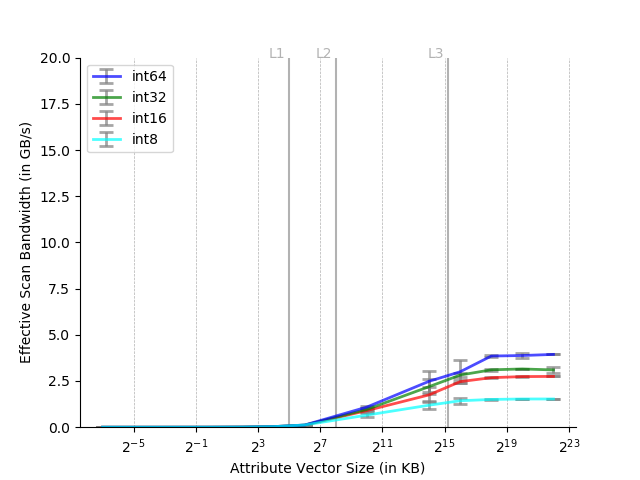
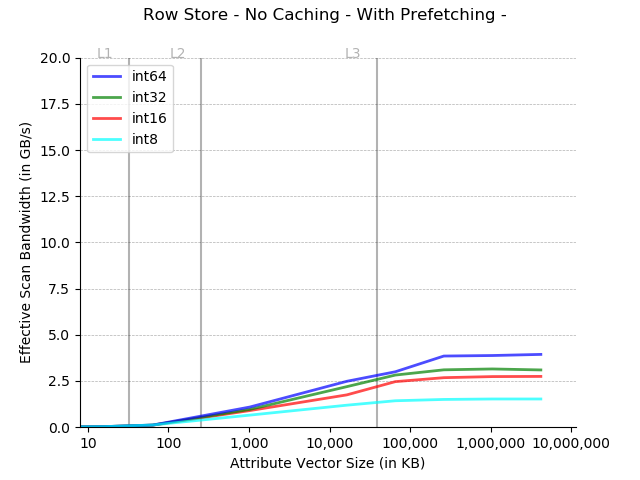
Plot improvements (#30)
* horizontal grid lines

* no-variance flag, base 10 x-axis, no power x-axis labels, start at 8KB

* plot title, only64

diff --git a/generate_figures.py b/generate_figures.py
@@ -2,6 +2,7 @@ import os
 import sys
 
 import matplotlib.pyplot as plt
+from matplotlib import ticker
 import numpy as np
 import pandas as pd
 
@@ -12,7 +13,7 @@ dtypekey = 'Data type'
 colors = ['#f6a800', '#af0039', '#dd630d', '#007a9e']
 
 
-def process_file(filename):
+def process_file(filename, show_variance, only_64):
     data = pd.read_csv(filename)
     csizes = np.unique(data[colszkey])
     dtype_dfs = []
@@ -21,8 +22,11 @@ def process_file(filename):
     ax.spines['top'].set_visible(False)
     ax.spines['right'].set_visible(False)
 
-    for dtype in np.unique(data[dtypekey]):
-        dtype_dfs.append(data[data[dtypekey] == dtype])
+    if only_64:
+        dtype_dfs.append(data[data[dtypekey] == "int64"])
+    else:
+        for dtype in np.unique(data[dtypekey]):
+            dtype_dfs.append(data[data[dtypekey] == dtype])
 
     for idx, df in enumerate(dtype_dfs):
         bandwidth = df[colszkey] / df[tkey] / 1024 / 1024 * 1e9
@@ -30,15 +34,22 @@ def process_file(filename):
         bandwidth_stds = [np.std(bandwidth[df[colszkey] == csz]) for csz in csizes]
 
         plt.errorbar(x=csizes,
-                     y=bandwidth_means,
-                     yerr=bandwidth_stds,
-                     label=df[dtypekey].iloc[0],
-                     color=colors[idx], alpha=0.7,
-                     ecolor='gray', lw=2, capsize=5, capthick=2)
+             y=bandwidth_means,
+             yerr=bandwidth_stds if show_variance else None,
+             label=df[dtypekey].iloc[0],
+             color=colors[idx], alpha=0.7,
+             ecolor='gray', lw=2, capsize=5, capthick=2)
 
     plt.legend()
     plt.xlabel('Attribute Vector Size (in KB)')
-    plt.xscale('log', basex=2)
+    plt.xscale('log', basex=10)
+
+    def comma_seperators(x, pos):
+        return "{:,}".format(int(x))
+
+    plt.gca().xaxis.set_major_formatter(ticker.FuncFormatter(comma_seperators))
+    plt.minorticks_off()
+    plt.xlim(xmin=8)
     plt.gca().yaxis.grid(True, lw=.5, ls='--')
     plt.ylabel('Effective Scan Bandwidth (in GB/s)')
 
@@ -50,7 +61,7 @@ def process_file(filename):
     else:
         plt.ylim(ymin=0, ymax=100)
 
-    # show cache sizes of L1, L2 and L3    
+    # show cache sizes of L1, L2 and L3
     if system_type == 'intel':
         cache_sizes_in_kib = {
             'L1': 32,
@@ -65,13 +76,23 @@ def process_file(filename):
         }
     for cache in cache_sizes_in_kib:
         plt.axvline(cache_sizes_in_kib[cache], color='k', alpha=.3)
-        plt.text(cache_sizes_in_kib[cache] * 0.4, plt.ylim()[1], cache, color='k', alpha=.3)    
+        plt.text(cache_sizes_in_kib[cache] * 0.4, plt.ylim()[1], cache, color='k', alpha=.3)
 
     # print labels in the right order
     handles, labels = plt.gca().get_legend_handles_labels()
     order = [2, 1, 0, 3]
-    plt.legend([handles[i] for i in order], [labels[i] for i in order], loc=2, prop={'size': 10})
+    if only_64:
+        plt.legend([handles[0]], [labels[0]], loc=2, prop={'size': 10})
+    else:
+        plt.legend([handles[i] for i in order], [labels[i] for i in order], loc=2, prop={'size': 10})
 
+    caching_enabled = "caching1" in filename
+    prefetching_enabled = "prefetch1" in filename
+    column_store = "colstore" in filename
+    caching_title = "With Caching" if caching_enabled else "No Caching"
+    prefetching_title = "With Prefetching" if prefetching_enabled else "No Prefetching"
+    store_title = "Column Store" if column_store else "Row Store"
+    plt.title("{} - {} - {} - ".format(store_title, caching_title, prefetching_title), y=1.08)
     plt.savefig(filename.replace('.csv', '.png'))
     plt.clf()
 
@@ -79,12 +100,15 @@ def process_file(filename):
 if __name__ == '__main__':
     path = sys.argv[1] if len(sys.argv) > 1 else 'benchmark.csv'
     system_type = sys.argv[2] if len(sys.argv) > 2 else 'power'
+    flags = sys.argv[3:]
+    show_variance = 'no-variance' not in flags
+    only_64 = 'only-64' in flags
     try:
         if os.path.isdir(path):
             for filename in os.listdir(path):
                 if filename[-4:] == '.csv':
                     print('Plotting ' + filename + '...')
-                    process_file(os.path.join(path, filename))
+                    process_file(os.path.join(path, filename), show_variance, only_64)
         else:
             process_file(path)
         print('Done')
